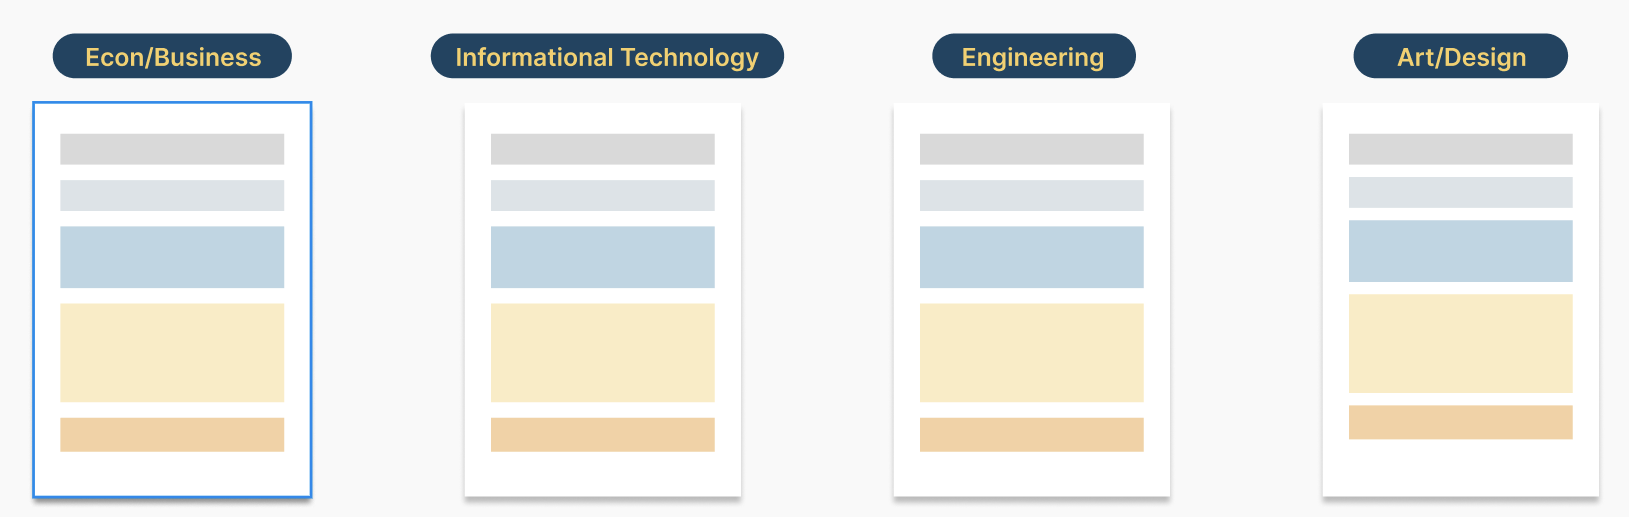
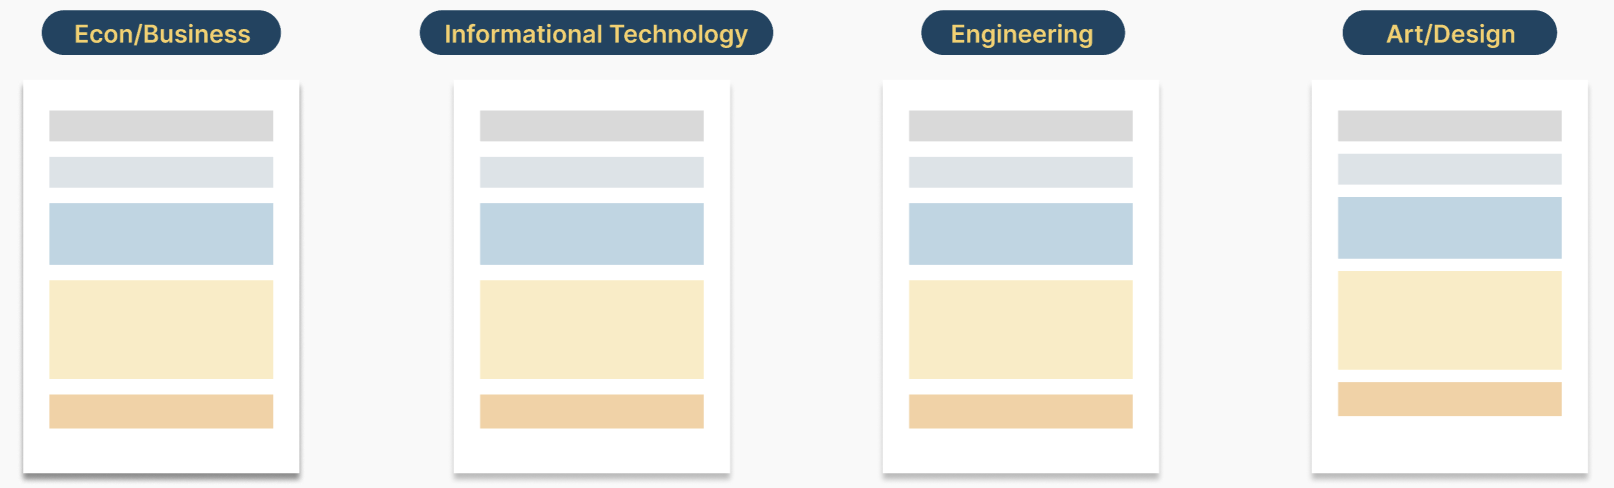
update resume

diff --git a/vue/src/views/Resume.vue b/vue/src/views/Resume.vue
@@ -6,19 +6,19 @@
       specific components for all of them. Let’s start!</p>
 
 
-    <hr>
+
 
 
     <div>
       <h2>Resume vs. CV</h2>
-      <hr>
+
       <img src="../assets/resumeVScv.png" width="859px" alt="resume VS. CV">
 
     </div>
-    <hr>
+
     <div>
       <h2>Resume Breakdown</h2>
-      <hr>
+
       <div>
         <h3>Resume Components</h3>
 
@@ -71,9 +71,20 @@
         <img src="../assets/resumeessentials.png" width="949px">
       </div>
 
-      <div>
+      <div id="sampleresume">
         <h3>Sample Resumes</h3>
-        <img src="../assets/sampleresumes.png" width="950px">
+        <a href="//google.com" target="_blank">
+        <img src="../assets/econresume.png" width="255px">
+        </a>
+        <a href="//google.com" target="_blank">
+          <img src="../assets/informationalresume.png" width="310px">
+        </a>
+        <a href="//google.com" target="_blank">
+          <img src="../assets/engineeringresume.png" width="255px">
+        </a>
+        <a href="//google.com" target="_blank">
+          <img src="../assets/artresume.png" width="255px">
+        </a>
       </div>
 
       <div>
@@ -107,10 +118,10 @@
       </div>
 
     </div>
-    <hr>
+
     <div>
       <h2>CV Breakdown</h2>
-      <hr>
+
       <div>
         <h3>CV Components</h3>
         <div>
@@ -172,20 +183,20 @@
       </div>
     </div>
 
-    <hr>
+
     <div>
       <h2>Cover Letter Breakdown</h2>
-      <hr>
+
       <div>
         <h3>Cover Letter Components</h3>
         <img src="../assets/coverletter.png" width="890px">
       </div>
     </div>
 
-    <hr>
+
     <div>
       <h2>More Resources</h2>
-      <hr>
+
       <p>Resume:</p>
       <ul>
         <li>Free Online Resume Builder: Resume Builder</li>
@@ -263,6 +274,25 @@ export default {
 
   .resumecomp > pre{
     padding-top: 1rem;
+  }
+
+  h3{
+    margin-bottom: 50px;
+  }
+  h1{
+    margin-bottom: 100px;
+    color: #1E4460;
+  }
+
+  h2{
+    margin-bottom: 82px;
+
+    border-top: 1px solid black;
+    border-bottom: 1px solid black;
+  }
+
+  #sampleresume a{
+    margin-right: 50px;
   }
 
 

diff --git a/vue/src/layout/Layout.vue b/vue/src/layout/Layout.vue
@@ -6,7 +6,7 @@
       <!--    主体-->
       <div style="display: flex">
         <!--      侧边栏-->
-        <Aside style="width: 15%; margin-left: 0.5%; margin-right: 2%; margin-top: 2%"/>
+        <Aside style="width: 15%; margin-left: 0.5%; margin-right: 2%; margin-top: 2%; position: sticky; left: 0"/>
         <!--      内容区域-->
         <router-view style="flex: 1; margin-left: 3%; max-width: 75%; margin-top: 2%"/>
       </div>
@@ -33,5 +33,6 @@ export default {
 </script>
 
 <style scoped>
+
 
 </style>
